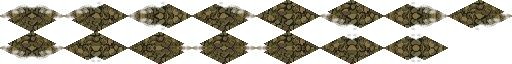
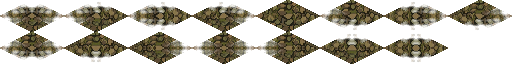
texture support and added 4 more textures

diff --git a/src/main.ts b/src/main.ts
@@ -23,7 +23,8 @@ enum TerrainType {
     Water = 0,
     Sand = 1,
     Dirt = 2,
-    Grass = 3
+    Grass = 3,
+    Stone = 4
 }
 
 enum RenderMode {
@@ -73,8 +74,15 @@ const DEFAULT_BUCKETS: TerrainBucket[] = [
     { name: 'Water', color: '#225588', threshold: -1.0, terrainType: TerrainType.Water },
     { name: 'Sand', color: '#eebb44', threshold: -0.2, terrainType: TerrainType.Sand },
     { name: 'Dirt', color: '#885533', threshold: 0.0, terrainType: TerrainType.Dirt },
-    { name: 'Grass', color: '#44aa44', threshold: 0.3, terrainType: TerrainType.Grass }
+    { name: 'Grass', color: '#44aa44', threshold: 0.3, terrainType: TerrainType.Grass },
+    { name: 'Stones', color: '#999999', threshold: 0.6, terrainType: TerrainType.Stone }
 ];
+
+// Generate transition layer order from buckets (skip first/lowest terrain which is always the base)
+// This array is automatically derived from DEFAULT_BUCKETS and sorted by threshold
+const TRANSITION_LAYER_ORDER: TerrainType[] = DEFAULT_BUCKETS
+    .slice(1) // Skip the first (lowest) terrain - it's always the base layer
+    .map(bucket => bucket.terrainType);
 
 // --- DEBUG SYSTEM ---
 interface TileDebugInfo {
@@ -106,8 +114,10 @@ let selectedTileDebugInfo: TileDebugInfo | null = null;
 // --- ASSET LOADING FUNCTIONS ---
 async function loadTerrainAssets(): Promise<void> {
     console.log("Starting to load terrain assets...");
-    const terrainNames = ['water', 'sand', 'dirt', 'grass'];
-    const promises = terrainNames.map(async (name, index) => {
+    // Derive terrain names from DEFAULT_BUCKETS to support dynamic terrain types
+    const promises = DEFAULT_BUCKETS.map(async (bucket) => {
+        const name = bucket.name.toLowerCase();
+        const terrainType = bucket.terrainType;
         console.log(`Loading ${name}...`);
 
         // Load image
@@ -139,13 +149,13 @@ async function loadTerrainAssets(): Promise<void> {
             });
         }
 
-        terrainAssets.set(index as TerrainType, {
+        terrainAssets.set(terrainType, {
             image: img,
             wangData,
             roleToId
         });
 
-        console.log(`${name} assets stored at index ${index}`);
+        console.log(`${name} assets stored for terrain type ${terrainType}`);
     });
 
     await Promise.all(promises);
@@ -313,8 +323,7 @@ class DualGridSystem {
         }
 
         // Calculate transition layers
-        const layerOrder = [TerrainType.Sand, TerrainType.Dirt, TerrainType.Grass];
-        for (const currentLayer of layerOrder) {
+        for (const currentLayer of TRANSITION_LAYER_ORDER) {
             // Wang tile bitmask - each bit represents a visual corner:
             // Bit 1 = Top visual corner (tl)
             // Bit 2 = Right visual corner (tr)
@@ -426,9 +435,7 @@ class DualGridSystem {
         // Each layer "splats" onto lower layers, creating natural coastlines
         // Skip Water (0) since it's already the base layer
         if (this.showTransitionLayer) {
-            const layerOrder = [TerrainType.Sand, TerrainType.Dirt, TerrainType.Grass];
-
-            for (const currentLayer of layerOrder) {
+            for (const currentLayer of TRANSITION_LAYER_ORDER) {
                 for (let y = 0; y < this.height - 1; y++) {
                     for (let x = 0; x < this.width - 1; x++) {
                         // Map grid positions to visual isometric corners
@@ -824,9 +831,7 @@ class DualGridSystem {
 
         // PASS 2: TRANSITION TILES
         if (this.showTransitionLayer) {
-            const layerOrder = [TerrainType.Sand, TerrainType.Dirt, TerrainType.Grass];
-
-            for (const currentLayer of layerOrder) {
+            for (const currentLayer of TRANSITION_LAYER_ORDER) {
                 for (let y = 0; y < this.height - 1; y++) {
                     for (let x = 0; x < this.width - 1; x++) {
                         const tl = this.getCell(x, y);
@@ -1136,9 +1141,25 @@ function loop() {
     requestAnimationFrame(loop);
 }
 
+// Generate dynamic CSS for terrain colors
+function generateTerrainCSS(): void {
+    const style = document.createElement('style');
+    style.id = 'dynamic-terrain-styles';
+
+    const css = DEFAULT_BUCKETS.map(bucket => {
+        const className = `terrain-${bucket.name.toLowerCase()}`;
+        return `.${className} { color: ${bucket.color}; }`;
+    }).join('\n        ');
+
+    style.textContent = css;
+    document.head.appendChild(style);
+    console.log("Dynamic terrain CSS generated for:", DEFAULT_BUCKETS.map(b => b.name).join(', '));
+}
+
 // Start loading assets and begin render loop
 loadTerrainAssets().then(() => {
     console.log("All terrain assets loaded!");
+    generateTerrainCSS(); // Generate CSS dynamically from buckets
 }).catch(err => {
     console.error("Failed to load assets:", err);
 });
@@ -1434,11 +1455,13 @@ function screenToGrid(screenX: number, screenY: number): { x: number; y: number 
 }
 
 function getTerrainName(terrain: TerrainType): string {
-    return ['Water', 'Sand', 'Dirt', 'Grass'][terrain];
+    const bucket = DEFAULT_BUCKETS.find(b => b.terrainType === terrain);
+    return bucket?.name ?? `Unknown Terrain ${terrain}`;
 }
 
 function getTerrainClass(terrain: TerrainType): string {
-    return ['terrain-water', 'terrain-sand', 'terrain-dirt', 'terrain-grass'][terrain];
+    const bucket = DEFAULT_BUCKETS.find(b => b.terrainType === terrain);
+    return bucket ? `terrain-${bucket.name.toLowerCase()}` : 'terrain-unknown';
 }
 
 function formatBitmask(role: number): string {
@@ -1571,7 +1594,8 @@ bucketsHeader.addEventListener('click', () => {
 let currentBuckets: TerrainBucket[] = [...DEFAULT_BUCKETS];
 
 // Next available terrain type ID (for dynamically created terrains)
-let nextTerrainTypeId = 4; // Start after Water(0), Sand(1), Dirt(2), Grass(3)
+// Automatically calculated from DEFAULT_BUCKETS
+let nextTerrainTypeId = Math.max(...DEFAULT_BUCKETS.map(b => b.terrainType)) + 1;
 
 // Generate bucket UI controls
 function generateBucketInputs() {

diff --git a/index.html b/index.html
@@ -140,11 +140,8 @@
             color: #eee;
             font-weight: bold;
         }
-        .terrain-water { color: #4da6ff; }
-        .terrain-sand { color: #ffcc66; }
-        .terrain-dirt { color: #cc8855; }
-        .terrain-grass { color: #66dd66; }
-        
+        /* Terrain color classes are now generated dynamically from DEFAULT_BUCKETS */
+
         .config-panel {
             position: fixed;
             left: 0;
